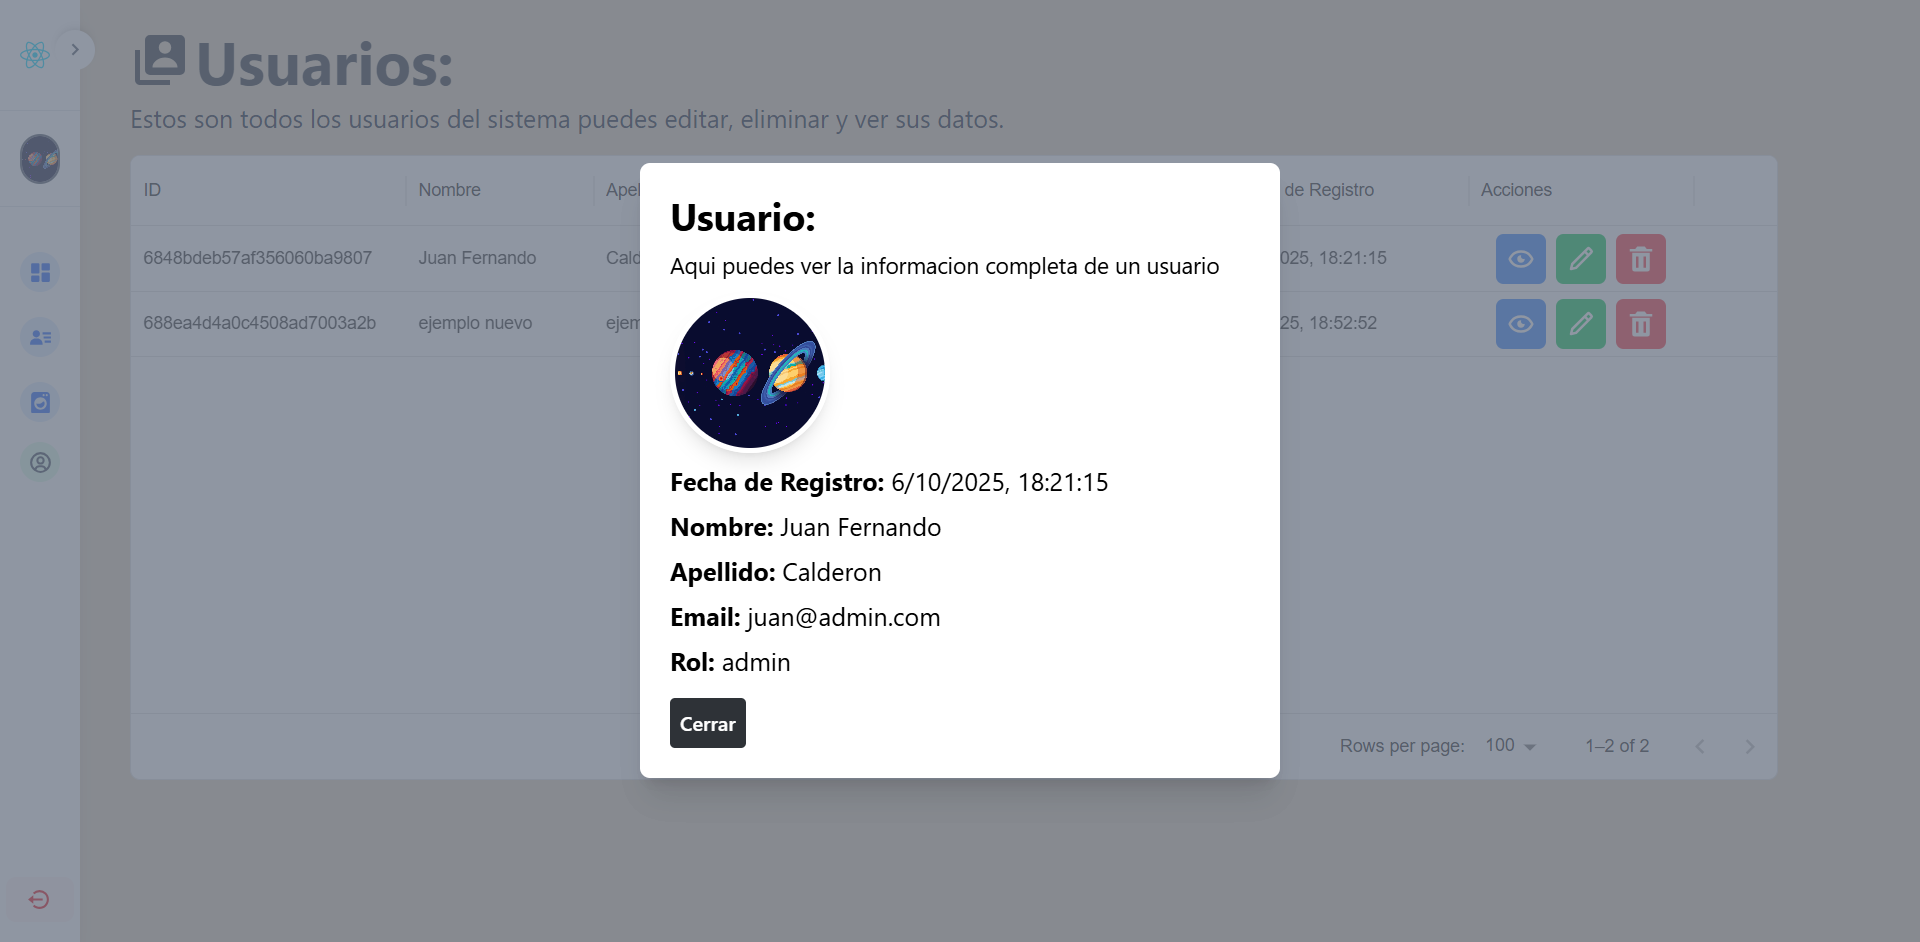
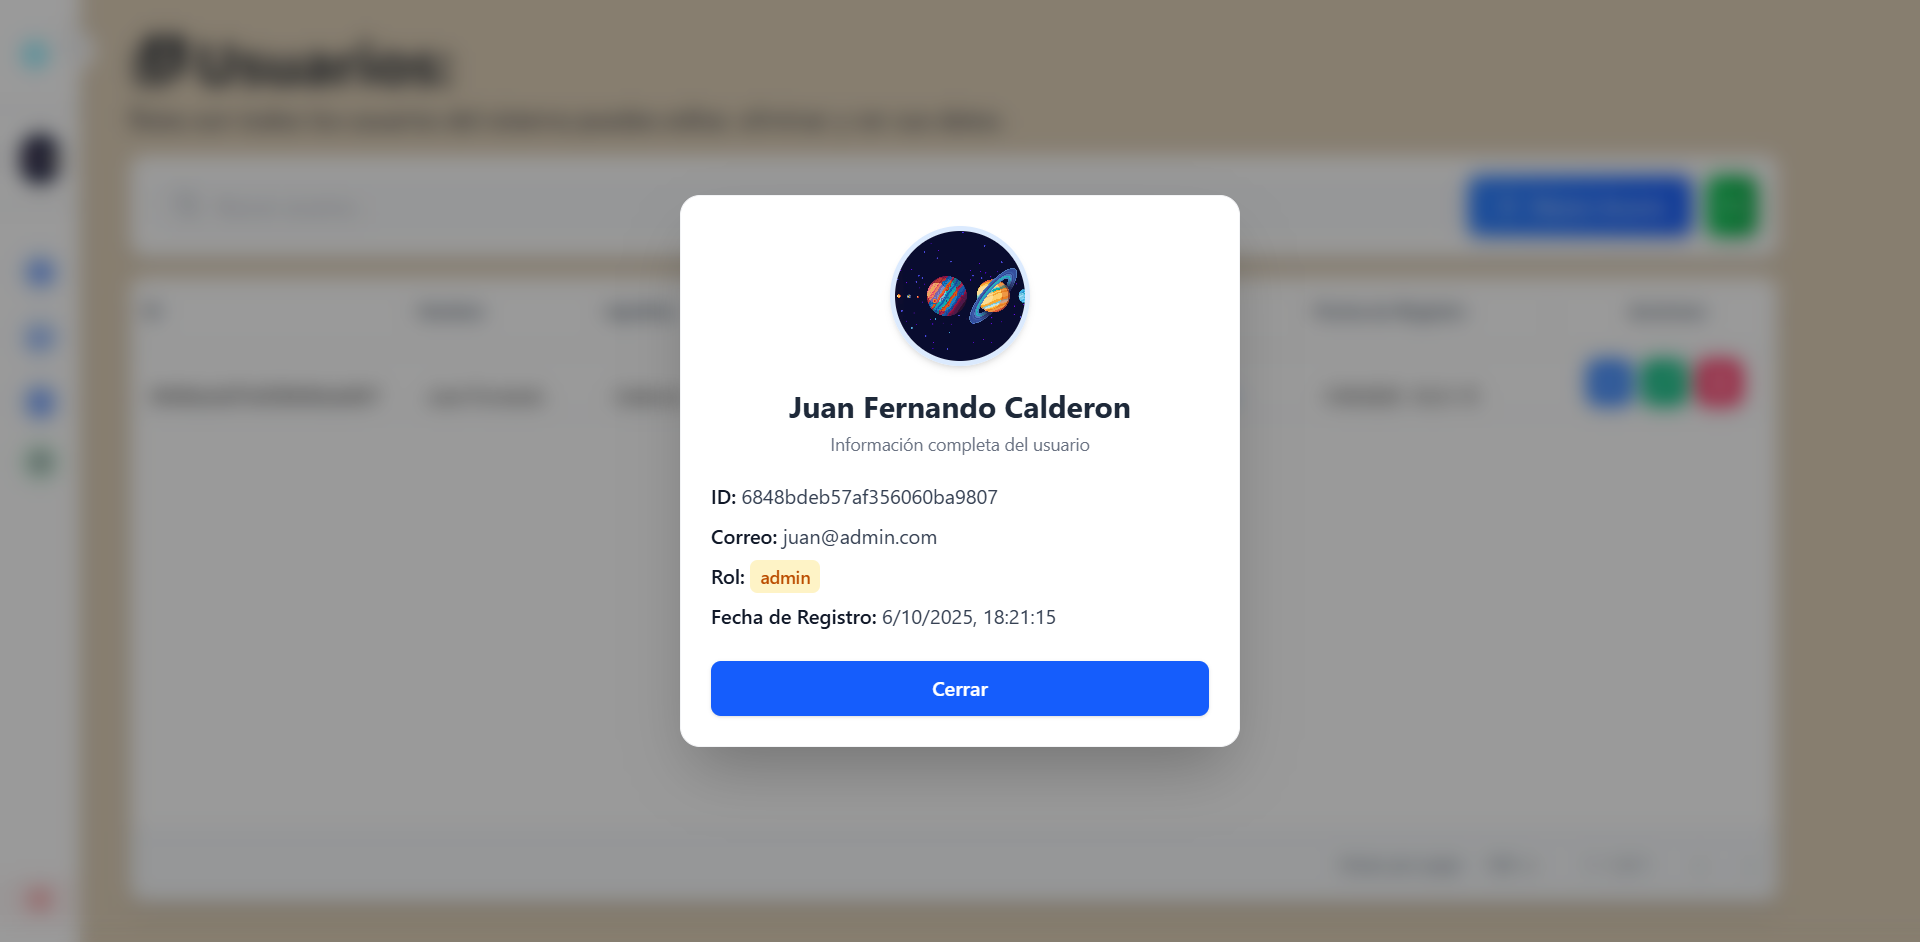
feat(users): improve user modals UI and loading states

diff --git a/frontend/src/components/modals/Users/ShowUser.tsx b/frontend/src/components/modals/Users/ShowUser.tsx
@@ -1,4 +1,10 @@
-import { Dialog, DialogBackdrop, DialogPanel } from "@headlessui/react";
+import {
+  Dialog,
+  DialogBackdrop,
+  DialogPanel,
+  DialogTitle,
+} from "@headlessui/react";
+import { BiUser } from "react-icons/bi";
 
 interface ShowUserModalProps {
   IsOpenView: boolean;
@@ -25,48 +31,87 @@ export default function ShowUserModal({
       onClose={() => setOpenView(false)}
       className="relative z-100"
     >
-      <DialogBackdrop className="fixed inset-0 bg-gray-500/75" />
+      <DialogBackdrop className="fixed inset-0 bg-black/40 backdrop-blur-sm" />
       <div className="modalPosition">
         <div className="modalContainer">
-          <DialogPanel className="dialogPanel p-6">
-            <h2 className="text-3xl font-bold mb-2">Usuario:</h2>
-            <p className="text-lg mb-2">
-              Aqui puedes ver la informacion completa de un usuario
-            </p>
-            {user ? (
-              <div className="space-y-2 mb-4 text-xl">
+          <DialogPanel className="w-full max-w-md transform overflow-hidden rounded-2xl bg-white shadow-2xl p-6 transition-all border border-gray-100">
+            <div className="flex flex-col items-center text-center">
+              {/* Imagen del usuario */}
+              {user?.image ? (
                 <img
                   src={`${import.meta.env.VITE_BASE_API}${user.image}`}
                   alt={`${user.firstName} ${user.lastName}`}
-                  className="w-32 h-32 rounded-full border-4 border-white shadow-lg object-cover"
+                  className="w-28 h-28 rounded-full border-4 border-blue-100 shadow-md object-cover mb-4"
                 />
-                <p>
-                  <strong>Fecha de Registro:</strong>{" "}
-                  {user.createdAt}
-                </p>
-                <p>
-                  <strong>Nombre:</strong> {user.firstName}
-                </p>
-                <p>
-                  <strong>Apellido:</strong> {user.lastName}
-                </p>
-                <p>
-                  <strong>Email:</strong> {user.email}
-                </p>
-                <p>
-                  <strong>Rol:</strong> {user.role}
-                </p>
-              </div>
-            ) : (
-              <p>No hay datos para mostrar</p>
-            )}
-            <div className="flex gap-2">
-              <button
-                className="btn_primary"
-                onClick={() => setOpenView(false)}
+              ) : (
+                <div className="w-28 h-28 flex items-center justify-center bg-gray-100 rounded-full mb-4 border border-gray-200">
+                  <BiUser className="text-5xl text-gray-400" />
+                </div>
+              )}
+
+              {/* Título */}
+              <DialogTitle
+                as="h3"
+                className="text-2xl font-bold text-gray-800 mb-1"
               >
-                Cerrar
-              </button>
+                {user
+                  ? `${user.firstName} ${user.lastName}`
+                  : "Usuario no disponible"}
+              </DialogTitle>
+
+              <p className="text-sm text-gray-500 mb-5">
+                Información completa del usuario
+              </p>
+
+              {/* Datos del usuario */}
+              {user ? (
+                <div className="w-full text-left space-y-2 text-gray-700">
+                  <p>
+                    <strong className="font-semibold text-gray-900">ID:</strong>{" "}
+                    {user.id}
+                  </p>
+                  <p>
+                    <strong className="font-semibold text-gray-900">
+                      Correo:
+                    </strong>{" "}
+                    {user.email}
+                  </p>
+                  <p>
+                    <strong className="font-semibold text-gray-900">
+                      Rol:
+                    </strong>{" "}
+                    <span
+                      className={`px-2 py-1 rounded-md text-sm font-medium ${
+                        user.role === "admin"
+                          ? "bg-amber-100 text-amber-700"
+                          : "bg-blue-100 text-blue-700"
+                      }`}
+                    >
+                      {user.role}
+                    </span>
+                  </p>
+                  <p>
+                    <strong className="font-semibold text-gray-900">
+                      Fecha de Registro:
+                    </strong>{" "}
+                    {new Date(user.createdAt).toLocaleString()}
+                  </p>
+                </div>
+              ) : (
+                <p className="text-gray-500 italic">
+                  No hay datos para mostrar.
+                </p>
+              )}
+
+              {/* Botón de cierre */}
+              <div className="mt-6 w-full">
+                <button
+                  onClick={() => setOpenView(false)}
+                  className="cursor-pointer w-full py-2.5 rounded-lg bg-blue-600 hover:bg-blue-700 text-white font-semibold transition-all duration-200 shadow-sm hover:shadow-md"
+                >
+                  Cerrar
+                </button>
+              </div>
             </div>
           </DialogPanel>
         </div>

diff --git a/frontend/src/components/modals/Users/DeleteUser.tsx b/frontend/src/components/modals/Users/DeleteUser.tsx
@@ -16,24 +16,23 @@ interface DeleteUserModalProps {
   } | null;
 }
 
-
 export default function DeleteUserModal({
   IsOpenView,
   setOpenView,
   user,
 }: DeleteUserModalProps) {
-  const userStore = useUserStore().user
+  const userStore = useUserStore().user;
   const { mutate: deleteUser, isPending } = useDeteleUser();
 
   const handleDelete = () => {
-    if (user?.id === userStore?._id){
-      return NotyfComponent.error("No puedes eliminar tu cuenta")
+    if (user?.id === userStore?._id) {
+      return NotyfComponent.error("No puedes eliminar tu cuenta");
     }
 
     deleteUser(user?.id || "", {
       onSuccess: () => {
         NotyfComponent.success("Usuario eliminado exitosamente");
-        setOpenView(false)
+        setOpenView(false);
       },
       onError: (err) => {
         console.log(err);
@@ -42,55 +41,67 @@ export default function DeleteUserModal({
     });
   };
 
+  if (!user) return null;
+
   return (
     <Dialog
       open={IsOpenView}
       onClose={() => setOpenView(false)}
-      className="relative z-100"
+      className="relative z-[100]"
     >
-      <DialogBackdrop className="fixed inset-0 bg-gray-500/75" />
-      <div className="modalPosition">
-        <div className="modalContainer">
-          <DialogPanel className="dialogPanel p-6">
-            <h2 className="text-3xl font-bold mb-2">Eliminar Usuario</h2>
-            <p className="text-lg mb-2">
-              ¿Estás seguro de que deseas eliminar este usuario?
+      <DialogBackdrop className="fixed inset-0 bg-black/40 backdrop-blur-sm" />
+      <div className="fixed inset-0 flex items-center justify-center p-4">
+        <DialogPanel className="w-full max-w-md bg-white rounded-xl p-6 shadow-2xl">
+          <h2 className="text-3xl font-bold text-center text-red-600 mb-3">
+            Eliminar Usuario
+          </h2>
+          <p className="text-center text-gray-700 mb-5">
+            ¿Estás seguro de que deseas eliminar este usuario? Esta acción no se
+            puede deshacer.
+          </p>
+
+          <div className="bg-gray-50 rounded-lg p-4 border border-gray-200 mb-6">
+            <p className="text-gray-800 mb-1">
+              <strong>Nombre:</strong>{" "}
+              <span className="capitalize">{user.firstName}</span>
             </p>
-            {user ? (
-              <div className="space-y-2 mb-4 text-xl">
-                <p>
-                  <strong>Nombre:</strong> {user.firstName}
-                </p>
-                <p>
-                  <strong>Apellido:</strong> {user.lastName}
-                </p>
-                <p>
-                  <strong>Email:</strong> {user.email}
-                </p>
-                <p>
-                  <strong>Rol:</strong> {user.role}
-                </p>
-              </div>
-            ) : (
-              <p>No hay datos para mostrar</p>
-            )}
-            <div className="flex gap-2">
-              <button
-                className="btn_primary"
-                onClick={() => setOpenView(false)}
-              >
-                Cancelar
-              </button>
-              <button
-                className="cursor-pointer px-2 bg-red-500 font-semibold rounded-md h-[40px] text-white flex items-center"
-                onClick={() => handleDelete()}
-                disabled={isPending}
-              >
-                {isPending ? 'Eliminando' : 'Eliminar'}
-              </button>
-            </div>
-          </DialogPanel>
-        </div>
+            <p className="text-gray-800 mb-1">
+              <strong>Apellido:</strong>{" "}
+              <span className="capitalize">{user.lastName}</span>
+            </p>
+            <p className="text-gray-800 mb-1">
+              <strong>Email:</strong> {user.email}
+            </p>
+            <p className="text-gray-800 mb-1">
+              <strong>Rol:</strong>{" "}
+              <span className="capitalize">{user.role}</span>
+            </p>
+            <p className="text-gray-600 text-sm mt-2">
+              <strong>Creado:</strong>{" "}
+              {new Date(user.createdAt).toLocaleString()}
+            </p>
+          </div>
+
+          <div className="flex justify-center gap-4">
+            <button
+              type="button"
+              onClick={() => setOpenView(false)}
+              className="cursor-pointer px-4 py-2 bg-gray-200 text-gray-800 font-semibold rounded-md hover:bg-gray-300 transition"
+            >
+              Cancelar
+            </button>
+
+            <button
+              onClick={handleDelete}
+              disabled={isPending}
+              className={`cursor-pointer px-4 py-2 rounded-md font-semibold text-white bg-red-600 hover:bg-red-700 transition ${
+                isPending ? "opacity-60 cursor-not-allowed" : ""
+              }`}
+            >
+              {isPending ? "Eliminando..." : "Eliminar"}
+            </button>
+          </div>
+        </DialogPanel>
       </div>
     </Dialog>
   );

diff --git a/frontend/src/components/modals/Users/EditUser.tsx b/frontend/src/components/modals/Users/EditUser.tsx
@@ -114,7 +114,7 @@ export default function EditUserModal({
       onClose={() => setOpenView(false)}
       className="relative z-100"
     >
-      <DialogBackdrop className="fixed inset-0 bg-gray-500/75" />
+      <DialogBackdrop className="fixed inset-0 bg-black/40 backdrop-blur-sm" />
       <div className="modalPosition">
         <div className="modalContainer">
           <DialogPanel className="dialogPanel p-6">
@@ -195,7 +195,9 @@ export default function EditUserModal({
                   </button>
                   <button
                     type="submit"
-                    className="bg-[#697565] text-white font-semibold px-4 py-2 rounded cursor-pointer"
+                    className={`bg-[#697565] text-white font-semibold px-4 py-2 rounded cursor-pointer ${
+                      isPending ? "opacity-50 cursor-not-allowed" : ""
+                    }`}
                     disabled={isPending}
                   >
                     {isPending ? "Guardando cambios..." : "Guardar Cambios"}

diff --git a/frontend/src/components/modals/Users/CreateUserAdmin.tsx b/frontend/src/components/modals/Users/CreateUserAdmin.tsx
@@ -194,7 +194,9 @@ export default function CreateUserAdmin({
                 type="submit"
                 form="createUserAdminForm"
                 disabled={isPending}
-                className="cursor-pointer bg-blue-500 hover:bg-blue-600 text-white font-semibold px-4 py-2 rounded transition-colors"
+                className={`cursor-pointer bg-blue-500 hover:bg-blue-600 text-white font-semibold px-4 py-2 rounded transition-colors ${
+                  isPending ? "opacity-50 cursor-not-allowed" : ""
+                }`}
               >
                 Guardar
               </button>

diff --git a/frontend/src/components/modals/Users/EditUserMe.tsx b/frontend/src/components/modals/Users/EditUserMe.tsx
@@ -285,7 +285,9 @@ export default function EditUserMe({
                   </button>
                   <button
                     type="submit"
-                    className="bg-[#697565] text-white font-semibold px-4 py-2 rounded cursor-pointer"
+                    className={`bg-[#697565] text-white font-semibold px-4 py-2 rounded cursor-pointer ${
+                      isPending ? "opacity-50 cursor-not-allowed" : ""
+                    }`}
                     disabled={isPending}
                   >
                     {isPending ? "Guardando cambios..." : "Guardar Cambios"}

diff --git a/backend/src/main.ts b/backend/src/main.ts
@@ -14,6 +14,9 @@ async function bootstrap() {
   // TODO Static folder para uploads
   app.useStaticAssets(join(__dirname, '..', 'uploads'), {
     prefix: '/uploads',
+    setHeaders: (res) => {
+      res.set('Cache-Control', 'public, max-age=31536000'); // 1 año
+    },
   });
 
   // TODO Validaciones globales
